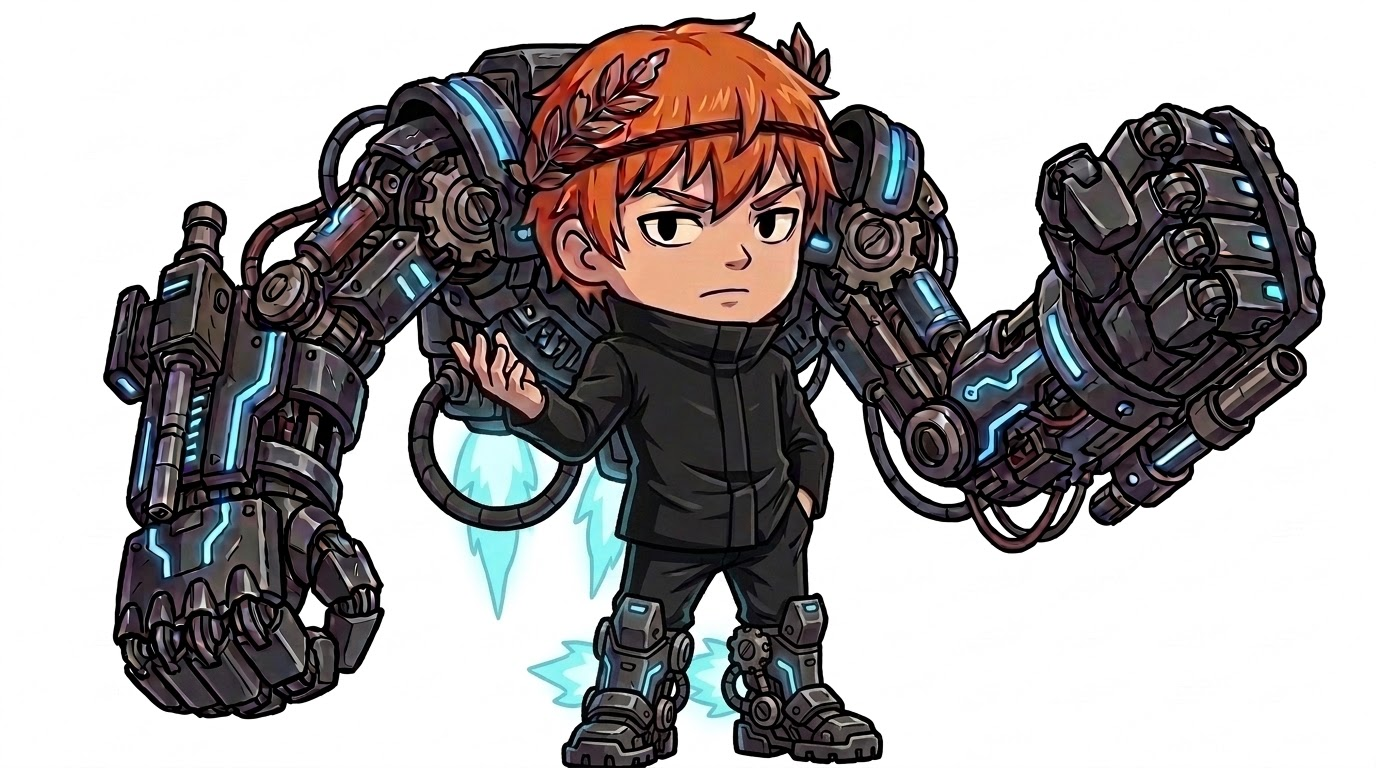
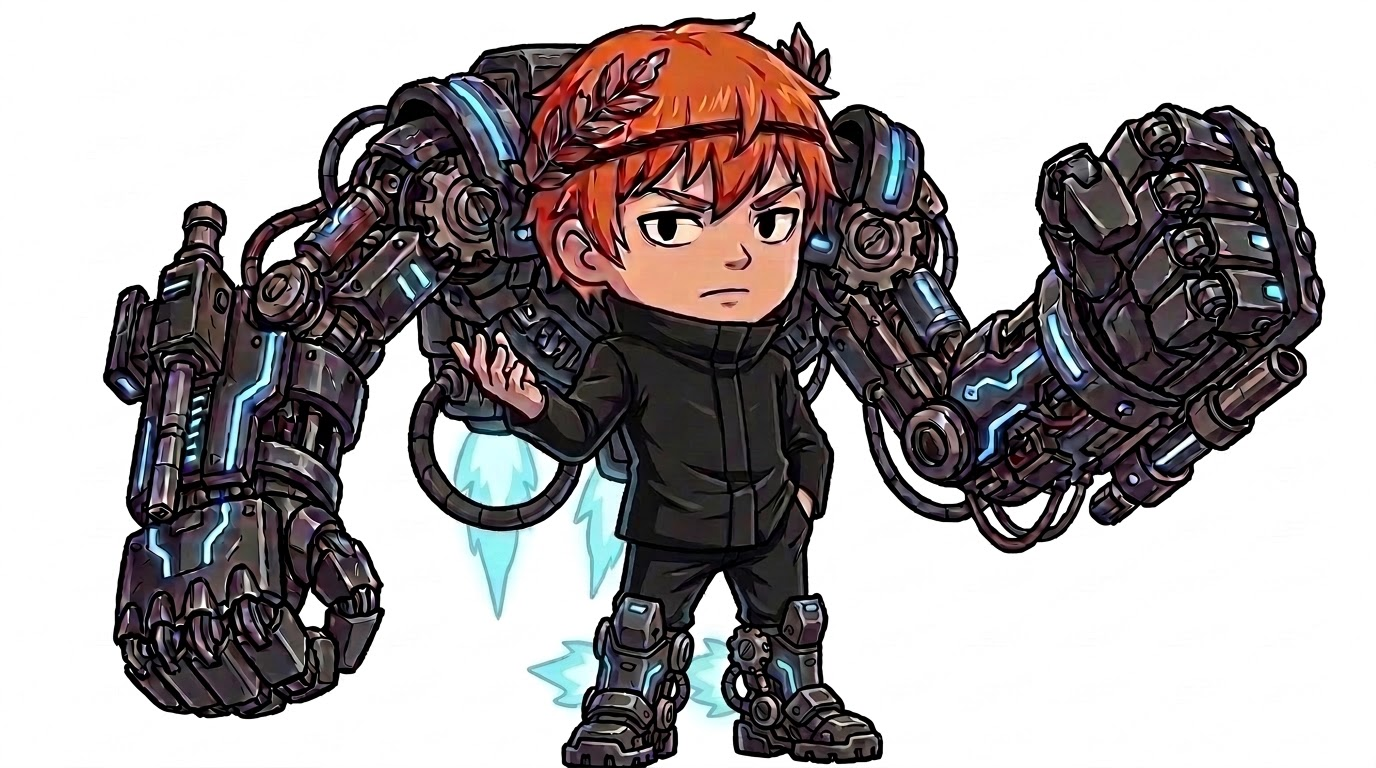
DEAR ขั้น 0 ปิดจ็อบ — รับภาพรอบสอง และถอนข้อที่วัดผิดไปหนึ่งข้อ
เจนซ้ำด้วยคำสั่ง zoom out ให้มีขอบว่างใต้เท้า แล้วกรอบออกมาเท่าเดิมเป๊ะ (ขอบล่าง 0 px)
ทั้งที่ภาพวาดใหม่จริง ต่างกัน 63,234 พิกเซล — ตัวเจนยึดองค์ประกอบของภาพอ้างอิง
แน่นกว่าคำสั่ง สู้ด้วยคำต่อไปก็แพ้อีก จึงรับไว้อย่างนี้

ที่สเกลจริงมันไม่เป็นปัญหา: เกมย่อเหลือสูง 130 px รองเท้ากินราว 15 px ส่วนที่ขาด
บางกว่า 1 พิกเซลบนจอ ซูมดูที่สเกลนั้นแล้วอ่านเป็นรองเท้าวางบนพื้นปกติ ชดเชยที่ feetY ได้
และเฟรมนี้เป็นเฟรมเดียวที่คับกรอบเพราะเป็นภาพตัวเดียวเต็มกรอบ ชีตที่เหลือเป็นตาราง 3x3
ซึ่งแต่ละท่าเล็กกว่ากรอบมาก ความเสี่ยงคนละเรื่องกัน

ถอนข้อ "โครงสูงล้ำหัวจนตัวเด็กเล็กกว่าคนอื่น 19%" — ผมวัดผิดเอง ไม่ใช่ปัญหาของภาพ
ตัวจับก้อนผมตัวแรกหลวมเกินไป (r>140 & r-b>45) มันไปจับก้อนผิวหน้าแทนก้อนผม
แล้วผมเอา y ของหน้ามาเป็นยอดหัว ตัวเด็กเลยคำนวณได้ 616 ทั้งที่ของจริง 744
วัดใหม่ด้วยเกณฑ์เข้มขึ้น: ยอดผม y24 โครงล้ำหัวแค่ 12 px (1.6%) ตัวเด็กคือ 98% ของกรอบ
ตั้ง STANDING จากกรอบรวมตามสูตรเดิมได้เลย ไม่ต้องแก้อะไร

บทเรียนที่ได้ระหว่างนั้นเก็บไว้ในไฟล์แล้ว: โลหะของเขาอมน้ำตาลพอจะหลุดเข้าเกณฑ์ส้มได้
เกณฑ์หลวมให้คำตอบคนละอย่างในภาพสองใบที่เป็นตัวละครเดียวกัน ต้องใช้
HAIR = (r>170) & (r-b>80) & (r-g>55) และ **ทดสอบกับสองใบขึ้นไปเสมอ** ก่อนเชื่อเกณฑ์
ซึ่งสำคัญเพราะเกณฑ์เดียวกันนี้จะไปเป็นทั้งตัวคัดท่าและไม้บรรทัดวัดกล้องตอน build

Claude-Session: https://claude.ai/code/session_01XyEfMBVkgvRs6GBvtK8EbY

diff --git a/art_prompts_dear.md b/art_prompts_dear.md
@@ -48,25 +48,21 @@
 เขากว้าง **210 px** บนเวทีกว้าง 1280 ซึ่ง **เท่ากับ Atlas (205) ที่อยู่ในเกมมาแล้ว**
 (ตัวเลข 388 ข้างบนเป็นสเกล 240 ซึ่งไม่ใช่ขนาดที่ตาเห็น)
 
-### ⚠ สามข้อที่ต้องจัดการ
+### สองข้อที่ต้องจัดการ (ข้อเดิมที่สามถอนแล้ว — ผมวัดผิดเอง)
 
-**1 · เท้าโดนตัดขอบล่าง — ข้อเดียวที่ต้องเจนใหม่**
-พื้นรองเท้าถูกตัดกลางทาง (ความกว้างแถวล่างสุดยังไล่จาก 234 ลง 80 แล้วจบห้วน)
-เฟรมนี้คือเฟรมที่ตั้ง **สเกลสัมบูรณ์ของทั้งตัว** และตั้ง `feetY` ที่ใช้วางเท้าบนพื้น
-ทุกเฟรมที่เหลืออ้างอิงจากมัน ผิดที่นี่ที่เดียวแล้วผิดทั้ง 74 เฟรม
-→ เจนใบขั้น 0 ซ้ำโดยเติมประโยคท้าย prompt (ดูบล็อกที่ 1 แก้ให้แล้ว)
+**1 · เท้าโดนตัดขอบล่าง — รับไว้อย่างนี้ ไม่ต้องเจนใหม่อีก**
+พื้นรองเท้ายังถูกตัด (ขอบว่างล่าง 0 px · ความกว้างแถวล่างสุดยังไล่ลงแล้วจบห้วนที่ 83)
+เจนซ้ำด้วยคำสั่ง "zoom out ให้มีขอบว่างใต้เท้า" แล้ว **กรอบออกมาเท่าเดิมเป๊ะ** ทั้งที่ภาพวาดใหม่จริง
+(ต่างกัน 63,234 พิกเซล) — ตัวเจนยึดองค์ประกอบของภาพอ้างอิงแน่นกว่าคำสั่ง สู้ด้วยคำต่อไปก็แพ้อีก
 
-**2 · โครงสูงล้ำหัวไปทางบน = ตัวเด็กจะเล็กกว่าคนอื่น 19%**
-กรอบภาพสูง 756 แต่ตัวเด็กจริง (ยอดผม → ส้นเท้า) สูง 616 — ไหล่ของโครงโผล่พ้นผมขึ้นไป
-ถ้า build ตั้ง `STANDING = 240` จากกรอบรวมตามสูตรเดิม ตัวเด็กจะสูงจริงแค่ **196 px**
-ยืนข้างคนอื่นที่สูง 240 เต็มแล้วดูเหมือนเด็กตัวเล็กผิดขนาด (เห็นชัดในภาพเทียบบนเวที)
+**แต่ที่สเกลจริงมันไม่เป็นปัญหา** เกมย่อเขาเหลือสูง 130 px รองเท้ากินราว 15 px
+ส่วนที่ขาดหายไปบางกว่า 1 พิกเซลบนจอ — ซูมดูที่สเกลนั้นแล้วอ่านเป็น "รองเท้าวางบนพื้น" ปกติ
+ที่เหลือชดเชยด้วย `feetY` ตอน build ได้ ซึ่งต้องตั้งเองอยู่แล้ว
 
-> **ข้อนี้แก้ที่ build ไม่ใช่ที่ prompt** และ **ห้ามแก้ด้วยการเจนใหม่**
-> เพราะท่าอย่างเงื้อหมัดเหนือหัว (C2 · F4 · G5) โครงต้องล้ำหัวอยู่แล้วโดยธรรมชาติ
-> `build_scramble_momus.py` ต้องวัด `STANDING` จาก **ยอดผมถึงส้นเท้า** ไม่ใช่จากกรอบรวม
-> ซึ่งแปลว่าต้องหาหัวให้เจอก่อน — ใช้ตัวเดียวกับไม้บรรทัดข้อ 3
+> เฟรมนี้เป็นเฟรมเดียวที่คับกรอบ เพราะเป็นภาพตัวเดียวเต็มกรอบ
+> ชีตที่เหลือเป็นตาราง 3×3 ซึ่งแต่ละท่าเล็กกว่ากรอบมาก ความเสี่ยงคนละเรื่องกัน
 
-**3 · ไม้บรรทัดวัดกล้องเดิมใช้กับตัวนี้ไม่ได้**
+**2 · ไม้บรรทัดวัดกล้องเดิมใช้กับตัวนี้ไม่ได้**
 `body_sqrt` (รากที่สองของพื้นที่ตัว) ตั้งอยู่บนสมมติฐานว่า **พื้นที่ตัวคงที่ทุกท่า**
 วัดแล้ว **แขนกลกินพื้นที่ 64.4%** ของทั้งตัว และมันยืด/หด/กางทุกท่า
 ไม้บรรทัดจะอ่านว่า "กล้องขยับ" ทั้งที่เขาแค่ต่อยหมัด แล้วขยายทั้งท่าผิดขนาด
@@ -74,7 +70,16 @@
 
 → ใช้ **พื้นที่ผมส้ม** เป็นไม้บรรทัดแทน หัวไม่เปลี่ยนขนาดและเห็นทุกท่า
 
----
+### ❌ ถอน: "โครงสูงล้ำหัวจนตัวเด็กเล็กกว่าคนอื่น 19%"
+
+**ข้อนี้ผมวัดผิดเอง ไม่ใช่ปัญหาของภาพ** ตัวจับ "ก้อนผม" ตัวแรกหลวมเกินไป
+มันไปจับ **ก้อนผิวหน้า** (y152-320) แทนก้อนผม แล้วผมเอา y152 มาเป็นยอดหัว
+ตัวเด็กเลยคำนวณได้ 616 px ทั้งที่ของจริงคือ 744
+
+วัดใหม่ด้วยเกณฑ์ที่เข้มขึ้น: **ยอดผมอยู่ที่ y24 · โครงล้ำหัวขึ้นไปแค่ 12 px (1.6%)**
+ตัวเด็กคือ **98% ของกรอบภาพ** — ตั้ง `STANDING` จากกรอบรวมตามสูตรเดิมได้เลย ไม่ต้องแก้อะไร
+
+บทเรียนที่ได้มาฟรีคือข้อถัดไป
 
 ## ⚠ ของที่ต้องแก้ในโค้ดก่อน build (ไม่ใช่เรื่องของ prompt)
 
@@ -89,12 +94,19 @@
 
 ### ทางแก้: ใช้ผมส้มเป็นทั้งตัวคัดและไม้บรรทัด
 
-วัดจากภาพที่อนุมัติแล้ว **ก้อนผมส้ม = 3.18% ของพื้นที่ตัว** ส่วนขยะที่เป็นโลหะล้วนมี ~0%
+วัดจากภาพที่อนุมัติแล้ว **ก้อนผมส้ม = 2.5% ของพื้นที่ตัว** (วัดตรงกันทั้งสองใบ) ส่วนขยะที่เป็นโลหะล้วนมี ~0%
 ห่างกันพอจะตั้งเกณฑ์ได้ไม่ก้ำกึ่ง และก้อนผมยังบอก **ตำแหน่งหัว** ซึ่งต้องใช้ตั้ง `STANDING` อยู่แล้ว
 
 ```python
-ORANGE = lambda r, g, b: (r > 140) & (r - b > 45) & (g < r)
+HAIR = lambda r, g, b: (r > 170) & (r - b > 80) & (r - g > 55)
 ```
+
+> ⚠ **เกณฑ์ต้องเข้มขนาดนี้ เกณฑ์หลวมกว่านี้ใช้ไม่ได้** เกณฑ์แรกที่ลอง
+> (`r>140 & r-b>45`) ไปจับผิวหน้าบ้าง จับโลหะสีทองแดงบ้าง แล้วให้คำตอบคนละอย่าง
+> ในภาพสองใบที่เป็นตัวละครเดียวกัน (ยอดผม y152 กับ y24) — ซึ่งคือที่มาของข้อที่ถอนไปข้างบน
+>
+> โลหะของเขาอมน้ำตาลพอจะหลุดเข้าเกณฑ์ส้มได้ง่าย ๆ **ทดสอบกับสองใบขึ้นไปเสมอ
+> แล้วดูว่าได้คำตอบตรงกันไหม** ใบเดียวผ่านไม่ได้แปลว่าเกณฑ์ถูก
 
 > 📌 **แต่ยังต้องวัดจริงจากชีตที่เจนมาก่อนตั้งเกณฑ์** ภาพเดียวไม่พอ
 > ท่าที่หันหลัง/ก้มหัวจะเห็นผมน้อยลง ตัวเลข 3.18% เป็นค่าจากท่ายืนตรงซึ่งเห็นผมเต็มที่
@@ -117,7 +129,9 @@ ORANGE = lambda r, g, b: (r > 140) & (r - b > 45) & (g < r)
 > เก็บไว้เป็นของสำรอง ถ้าอยากตัดงบเจนลงหนึ่งใบ ตัดสามท่านี้ทิ้งได้โดยไม่กระทบอะไร
 
 ---
-## 1. ขั้น 0 — ท่ายืน (ด่านกั้น · ต้องผ่านก่อนเจนอย่างอื่น)
+## 1. ขั้น 0 — ท่ายืน (ด่านกั้น · ✅ **ผ่านแล้ว ไม่ต้องเจนซ้ำ**)
+
+> เก็บ prompt ไว้เผื่อต้องเจนใหม่ทั้งตัว — ของที่ใช้จริงอยู่ที่ `art_reference/dear_idle_APPROVED.jpg`
 
 เจนใบนี้ใบเดียวก่อน แล้ว **เอาไปวางข้างตัวอื่นในโรสเตอร์เทียบขนาดจริง** ถึงค่อยเจนชีตต่อ
 สิ่งที่ต้องดู: สูงราว 2.5-2.8 หัว · เงาไม่แคบกว่าคนอื่น · ท่อนล่างต้องเข้มพอที่จะไม่จมพื้นฉาก
@@ -132,10 +146,6 @@ He stands upright in a loose ready stance, feet well apart, weight low, the
 big mechanical fists hanging at his sides, chin slightly down, eyes forward,
 calm rather than cheerful. One character only, one pose only. No turnaround,
 no multiple views, no text, no labels, no header bars.
-Leave a clear band of empty white space below the soles of his boots and
-above the highest part of the rig — the soles must be drawn complete with
-their whole bottom edge visible, never touching or running off the bottom of
-the image.
 
 Chibi-proportioned anime game sprite, large head roughly one third of the total height, short stubby limbs, bold dark outlines, flat cel shading, muted desaturated palette — match the attached reference proportions exactly. Character: a small orange-haired boy wearing heavy cybernetic augments. His copper-orange hair lies FLAT against his skull with the hairline clearly visible, never a wide round frizzy halo. He wears a close-fitting charcoal-black bodysuit with dark grey panel seams. A dark bronze laurel wreath sits on his hair. He has a flat, serious, unimpressed expression — never cheerful. Mounted on his back is a gunmetal exoskeleton rig carrying TWO HUGE INDEPENDENT MECHANICAL ARMS that arch up over his shoulders and hang down on either side of him. These are NOT his own arms: his own small human hands stay visible against his chest and at his side, and the big arms are suspended from the back rig by thick armoured cables and hoses, always staying physically connected to that rig. Each mechanical arm ends in a blocky fist as large as his whole torso. Visible hydraulic pistons run along each mechanical arm and extend when it reaches out. He also wears segmented armour plates over both knees and shins above heavy armoured boots. Thin cyan light lines are inlaid along the rig's plating and along the pistons; they glow brighter when he exerts himself. Every nozzle carries a SHORT pale-cyan flame that stays attached to its nozzle and is never longer than half his body height. The mechanical arms are the largest and heaviest-reading things on him, and his silhouette is widest at the fists. He stands and moves with his feet planted WELL APART and his weight low, so his silhouette stays broad rather than a narrow column. Three-quarter view, body angled toward the viewer's right. Pure white background, no shadow, no ground line, no props beyond those described, no text, no labels, no panel borders. Full body visible from the top of his hair to the soles of both boots — do not crop, do not zoom. Leave a clear band of empty white space below the soles and above the highest part of the rig; the soles must be drawn complete with their whole bottom edge visible and must never touch or run off the edge of the image. Identical camera distance and identical character size in every pose. Exactly two arms and two legs, clearly separated, do not overlap or duplicate limbs. No detached flames, no floating fire, no flame breaking away from the body — all flame stays attached to a nozzle. No energy barrier, no bubble shield, no aura ring, no glowing sphere around him. No smoke, no dust, no cracked ground, no sparks, no motion lines, no speed lines, no impact effects — the game draws all of that.
 ```
